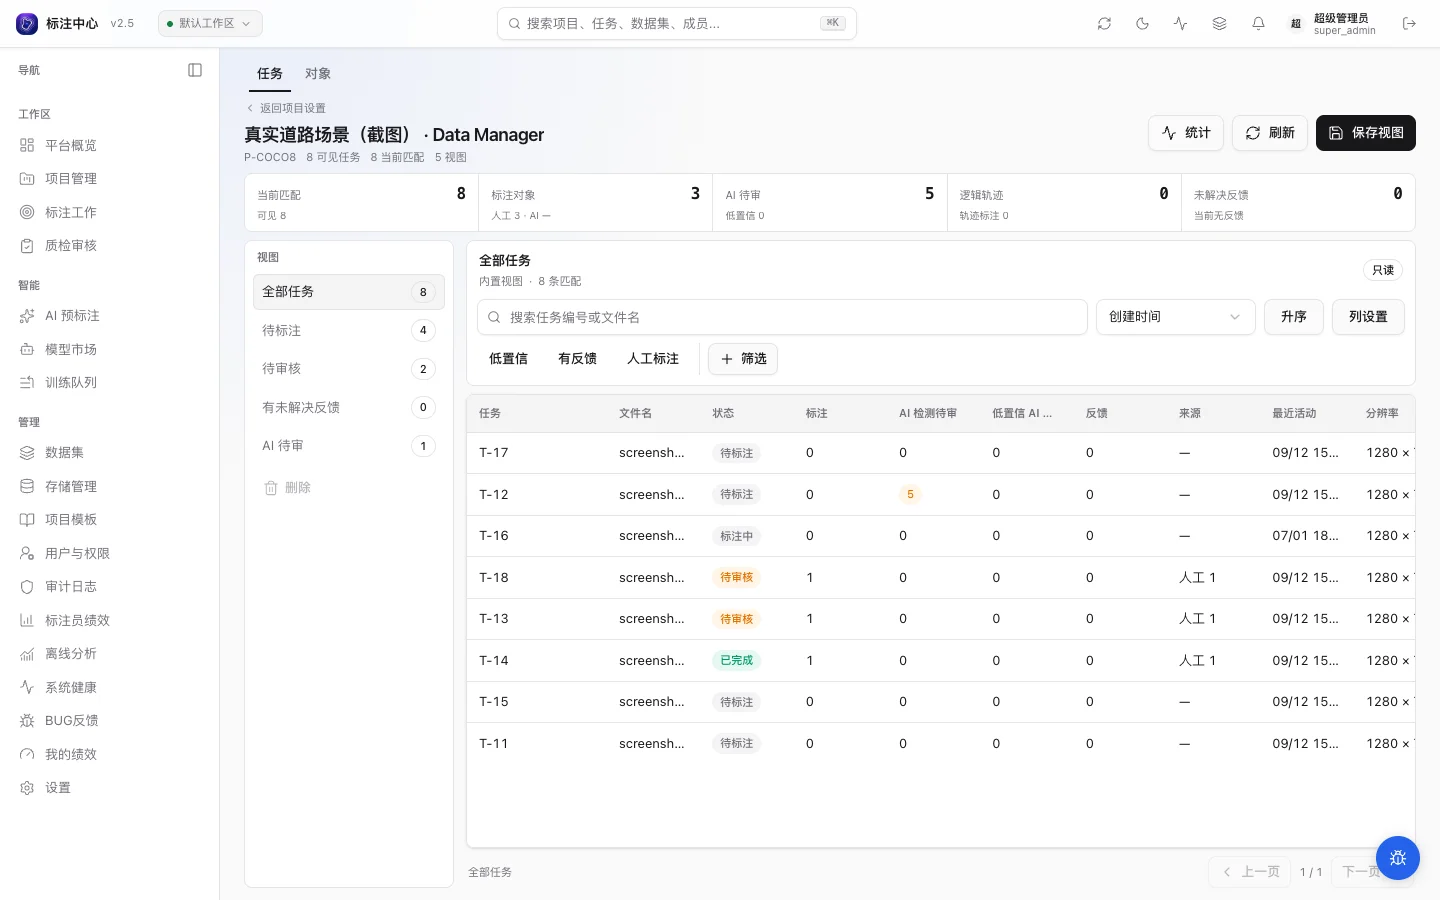
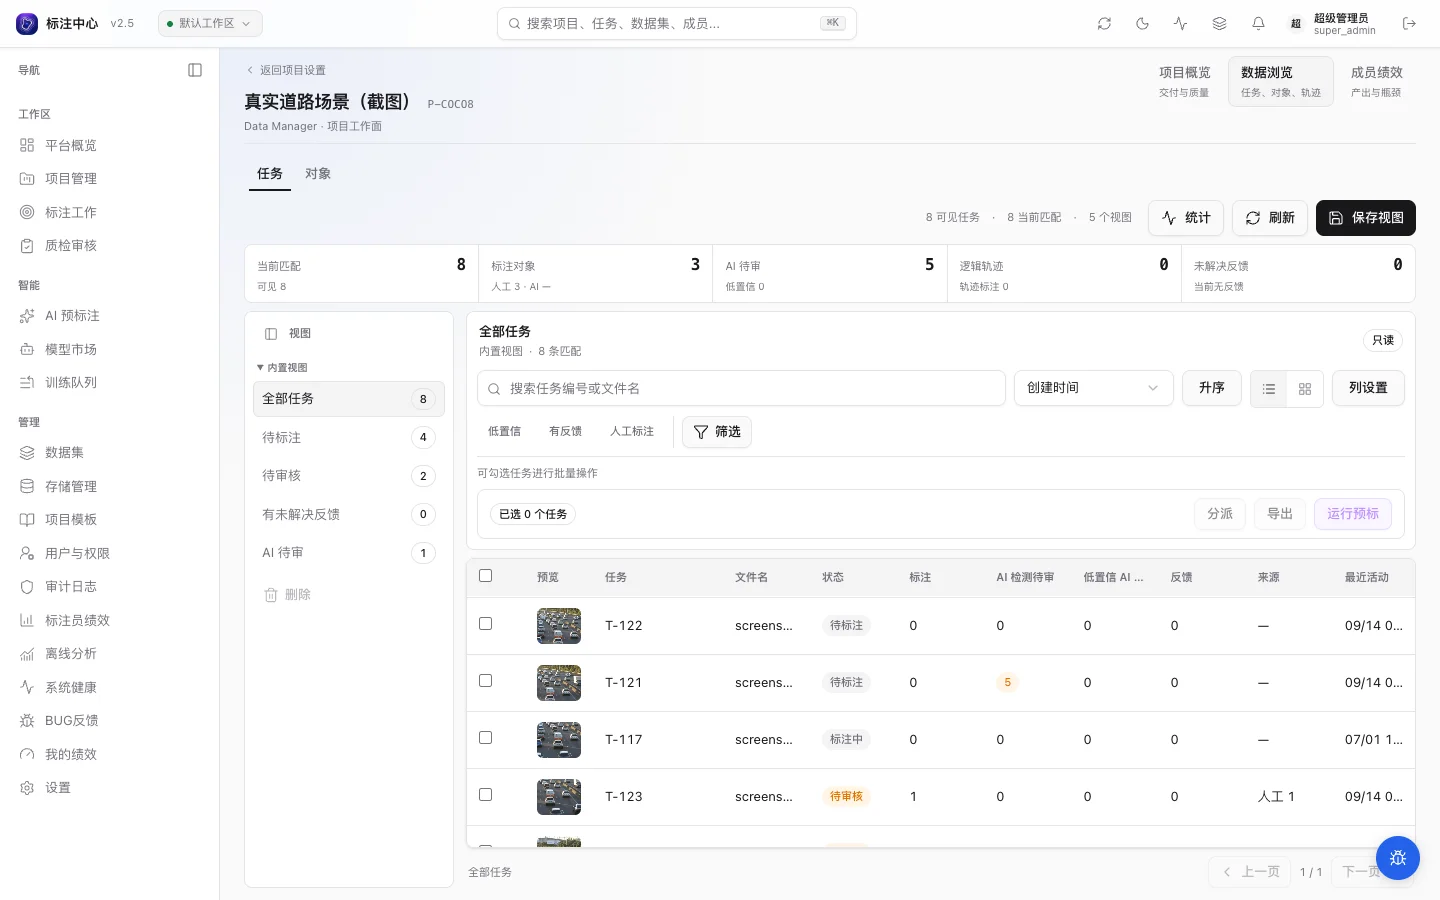
docs(data-manager): capture management views and member dashboard

diff --git a/apps/web/e2e/screenshots/scenes/projects.ts b/apps/web/e2e/screenshots/scenes/projects.ts
@@ -90,7 +90,10 @@ export const PROJECT_SCENES: ScreenshotScene[] = [
     route: (catalog) => `/projects/${catalog.projects.image_demo.id}/data-manager`,
     prepare: async (page) => {
       await page.waitForLoadState("networkidle");
-      await page.waitForTimeout(600); // 视图列表 + 过滤条件栏 + 任务表格
+      await page
+        .getByRole("checkbox", { name: /^选择任务 / })
+        .first()
+        .waitFor();
     },
     capture: { kind: "fullPage" },
     target: "docs-site/user-guide/images/projects/data-manager-overview.png",
@@ -102,14 +105,27 @@ export const PROJECT_SCENES: ScreenshotScene[] = [
     route: (catalog) => `/projects/${catalog.projects.image_demo.id}/data-manager`,
     prepare: async (page) => {
       await page.waitForLoadState("networkidle");
-      await page.waitForTimeout(400);
       // 展开/新增一条过滤条件行（字段选择器展开）
       const addRule = page.getByRole("button", { name: "筛选", exact: true });
       await addRule.click();
-      await page.waitForTimeout(300);
+      await page.getByRole("textbox", { name: "搜索筛选字段" }).waitFor();
     },
     capture: { kind: "fullPage" },
     target: "docs-site/user-guide/images/projects/data-manager-filter-rules.png",
+  },
+  {
+    name: "projects/data-manager-members",
+    role: "admin",
+    clock: "live",
+    fixture: { project: "image_demo" },
+    route: (catalog) => `/projects/${catalog.projects.image_demo.id}/data-manager?section=members`,
+    prepare: async (page) => {
+      await page.getByRole("heading", { name: "成员绩效", exact: true }).waitFor();
+      await page.getByRole("table").getByRole("row").nth(1).getByRole("button").first().waitFor();
+    },
+    capture: { kind: "fullPage" },
+    matrix: { themes: ["light", "dark"] },
+    target: "docs-site/user-guide/images/projects/data-manager-members.png",
   },
   {
     name: "projects/template-library-overview",

diff --git a/docs-site/user-guide/projects/data-manager.md b/docs-site/user-guide/projects/data-manager.md
@@ -181,6 +181,8 @@ Data Manager 同时显示两种数量：
 
 **分派**先选择标注员，可保留原值或恢复批次默认；未分批任务恢复默认后变为未分派。待审核任务还可指定审核员，其他状态会在预览中标明不适用。预览列出实际生效的前后指派、可更新数量及不可用原因；确认时再次校验权限、成员和锁。任务或指派已变化时需重新预览。锁定、归档或状态不适用的任务不会被强制改写，完成后显示实际成功、跳过和失败数量。单独指派只改变所选任务的访问与领取范围，不改变同批其他任务。
 
+表格、画廊与人员筛选显示实际生效的指派；没有任务覆盖值时，沿用批次默认成员。
+
 **导出**选择当前媒体支持的格式后创建异步作业，范围始终是勾选任务。作业完成后可从任务铃下载。局部任务暂不支持 VOC、KITTI、nuScenes、Multi-camera COCO 和 Point Mask，需使用原项目或批次导出入口。
 
 **运行预标**复用项目的模型与编排配置，只接受待标注、处于活动批次（或未分批）且没有编辑锁的任务。服务端与执行 worker 都会复核范围。导出和预标注保留作业编号、状态、失败原因与重试入口；清空选择后仍可查看刚提交的作业。
@@ -188,6 +190,12 @@ Data Manager 同时显示两种数量：
 ## 成员绩效
 
 项目负责人和超级管理员可从顶部 **成员绩效** 或项目操作菜单进入。看板用于查看项目内贡献和瓶颈，不生成综合评分或排名。
+
+![项目成员绩效看板](../images/projects/data-manager-members.png)
+
+::: details 深色主题预览
+![项目成员绩效看板（深色主题）](../images/projects/data-manager-members.dark.png)
+:::
 
 先选择标注或审核工作，再选择今天、最近 7 天、最近 30 天或自定义日期。页面显示实际时间范围与时区；自定义结束日期不包含当天，例如查看 9 月 1 日至 7 日需选择开始 9 月 1 日、结束 9 月 8 日。单次最多查询 90 天。数据浏览中的任务/对象筛选不会改变成员统计。
 
